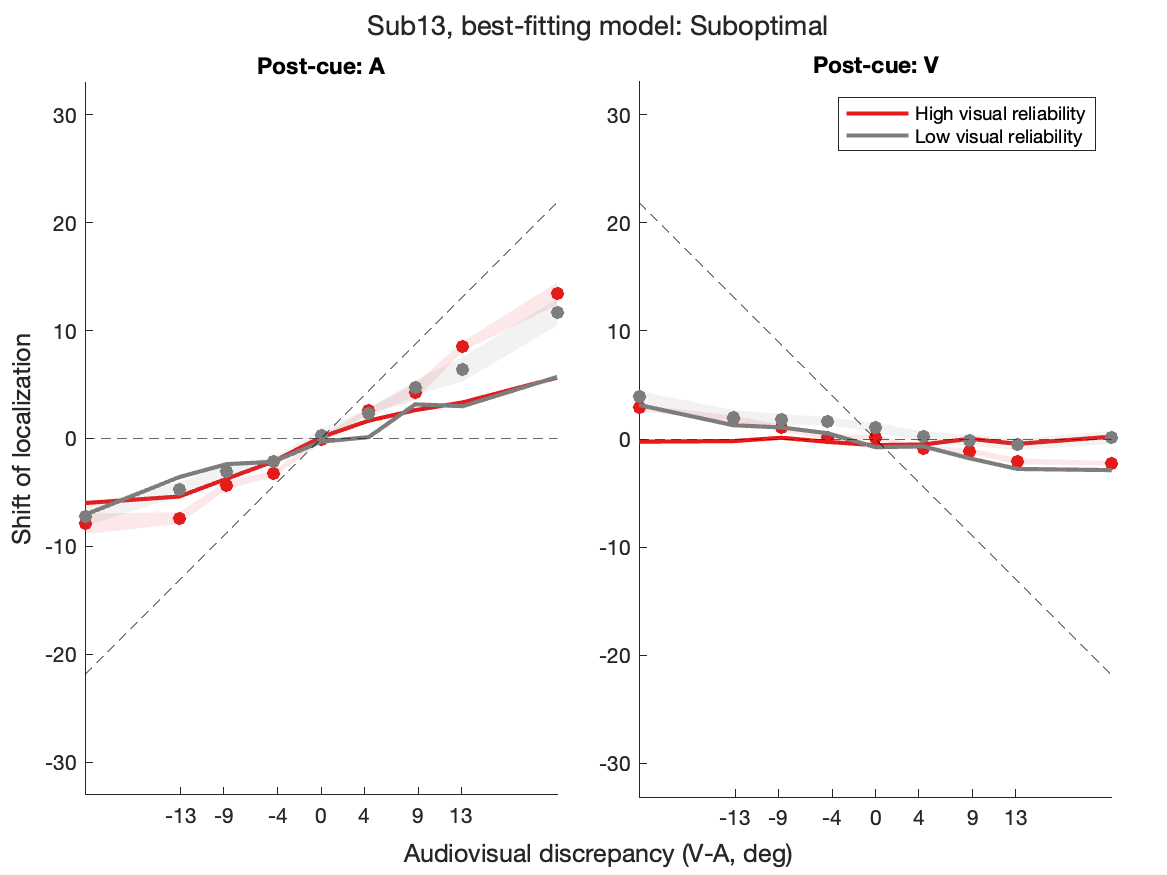
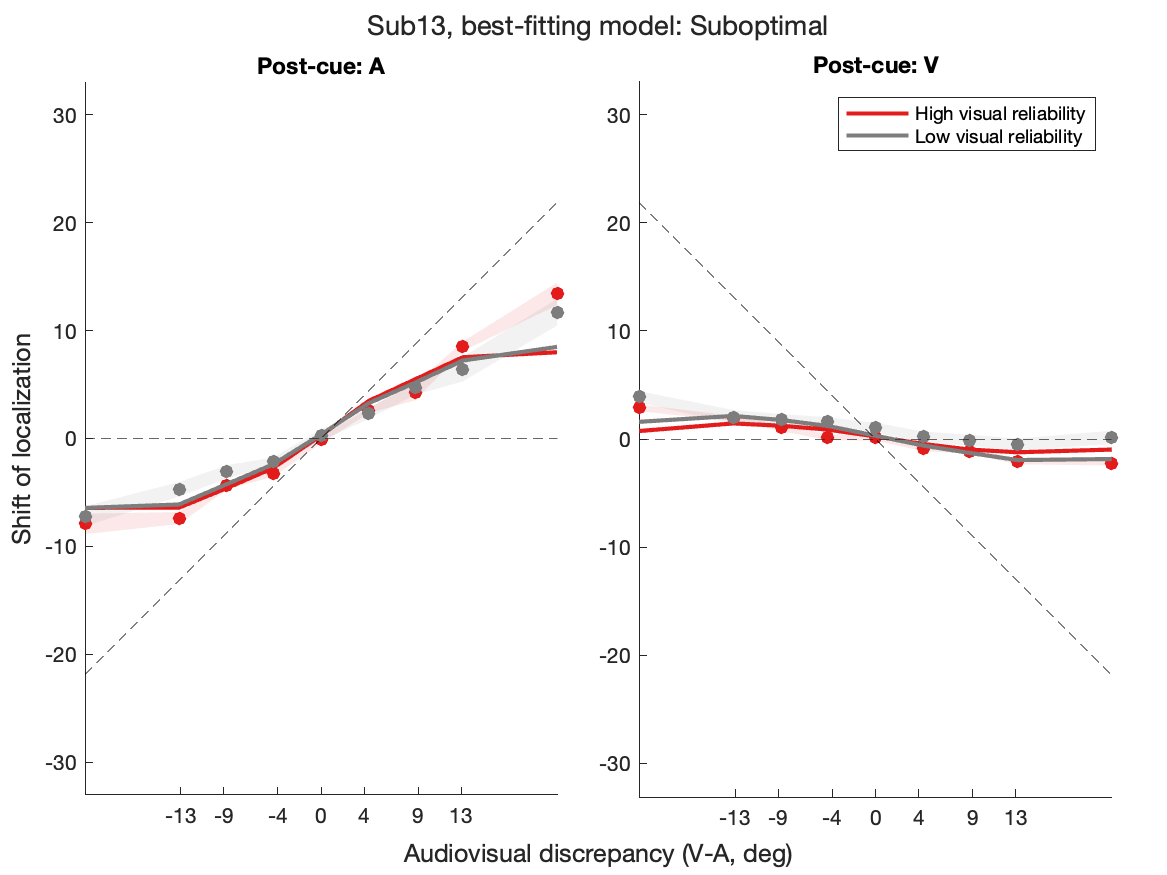
loc only with sig_P

Changed region(s): [[0.5244, 0.4629, 0.9563, 0.5554], [0.2468, 0.4011, 0.4627, 0.5246], [0.0617, 0.5246, 0.2468, 0.5863]]

diff --git a/func/analyze_loc.m b/func/analyze_loc.m
@@ -1,0 +1,80 @@
+function [mean_ve, std_ve, raw_diff]  = analyze_loc(sub_slc, ses_slc, pred, interpolateUni)
+
+if ~exist('interpolateUni' ,'var'); interpolateUni = true; end
+
+
+% manage path
+cur_dir      = pwd;
+[project_dir, ~]= fileparts(fileparts(cur_dir));
+addpath(genpath(fullfile(project_dir,'func')))
+
+
+% load unimodal prediction if it exists
+if exist('pred.uni_loc','var')
+    uni_loc = pred.uni_loc;
+else % load unimodal data if there's no prediction
+    uni_loc  = org_data(sub_slc,[],'uniLoc');
+    if exist('pred','var') % load bimodal prediction if it exists
+        bi_loc = pred.bi_loc;
+        biExpInfo = pred.biExpInfo;
+    else % load bimodal data if there's no prediction
+        [bi_loc, ~, ~, biExpInfo] = org_data(sub_slc,ses_slc,'biLoc');
+        uni_loc = org_data(sub_slc,[],'uniLoc');
+    end
+end
+
+% get stimulus loactions;
+bi_sA = unique(biExpInfo.randAudVA);
+bi_sV = unique(biExpInfo.randVisVA);
+uni_sA = bi_sA;
+
+
+%% reorganize ventriloquist effect
+
+% interpolates auditory responses as a straight line
+if interpolateUni || ~isequal(uni_sA, bi_sA)
+
+    % load([sprintf('AVbias_sub%i', ExpInfo.subjID) '.mat'])
+    % coefsA = squeeze(Transfer.degCoeff(1, :));
+    % There is no need to load bias data because we can calculate it here.
+    % This allows fake unimodal data to be used.
+    mean_uni_resp = mean(uni_loc, 3);
+%     sArep = repmat(bi_sA',1,uniExpInfo.nRep);
+    sArep = repmat(bi_sA',1,20); 
+    uni_a_resp = squeeze(uni_loc(1,:,:));
+    mdlA = fitlm(sArep(:),uni_a_resp(:));
+    coefsA = table2array(mdlA.Coefficients(:,1));
+    interpolate_a_resp = uni_sA .* coefsA(2) + coefsA(1); % condition (A,V1,V2) x loc (4)
+    loc_a = repmat(interpolate_a_resp',[1, numel(bi_sV)]);
+    loc_v = repmat(bi_sV, [numel(bi_sA), 1]);
+    % useful line for debug bias:
+    % figure
+    % plot(uniExpInfo.speakerLocVA(uniExpInfo.audLevel),mean_uni_resp(1,:),'-o'); hold on; plot(uniExpInfo.speakerLocVA(audIdx),interpolate_a_resp,'-o')
+
+% use mean uni loc responses 
+else
+
+    mean_uni_resp = mean(uni_loc, 3); % condition (A,V1,V2) x loc (4)
+    loc_a = repmat(mean_uni_resp(1,:)', [1, numel(bi_sV)]);
+    loc_v = repmat(bi_sV, [numel(bi_sA), 1]);
+
+end
+
+% reshape into dimensions of bi
+org_uni_loc(:,:,1,1:2) = repmat(loc_a, [1,1,1,2]);
+org_uni_loc(:,:,2,1:2) = repmat(loc_v, [1,1,1,2]);
+
+% loc at uni minus loc at bi
+ve = mean(bi_loc, 5) - org_uni_loc;
+std_ve = std(bi_loc,[], 5) ./ sqrt(size(bi_loc,5));
+
+% diff x cue x reliability
+[mean_ve, raw_diff] = org_by_raw_diffs_4D(ve, bi_sA);
+[std_ve, ~] = org_by_raw_diffs_4D(std_ve, bi_sA);
+
+
+
+
+
+
+end

diff --git a/modelFit/uniBiLoc_joint_loc_only/nllUniBiLocConf.m b/modelFit/uniBiLoc_joint_loc_only/nllUniBiLocConf.m
@@ -8,7 +8,7 @@ switch model.mode
         out.num_para                 = length(out.paraID);
 
         % hard bounds, the range for LB, UB, larger than soft bounds
-        paraH.aA                     = [ 0.5,     3]; % degree
+        paraH.aA                     = [ 0.1,     3]; % degree
         paraH.bA                     = [ -10,    10]; % degree
         paraH.sigV1uni               = [1e-2,     5]; % degree
         paraH.sigAuni                = [   1,    15]; % degree
